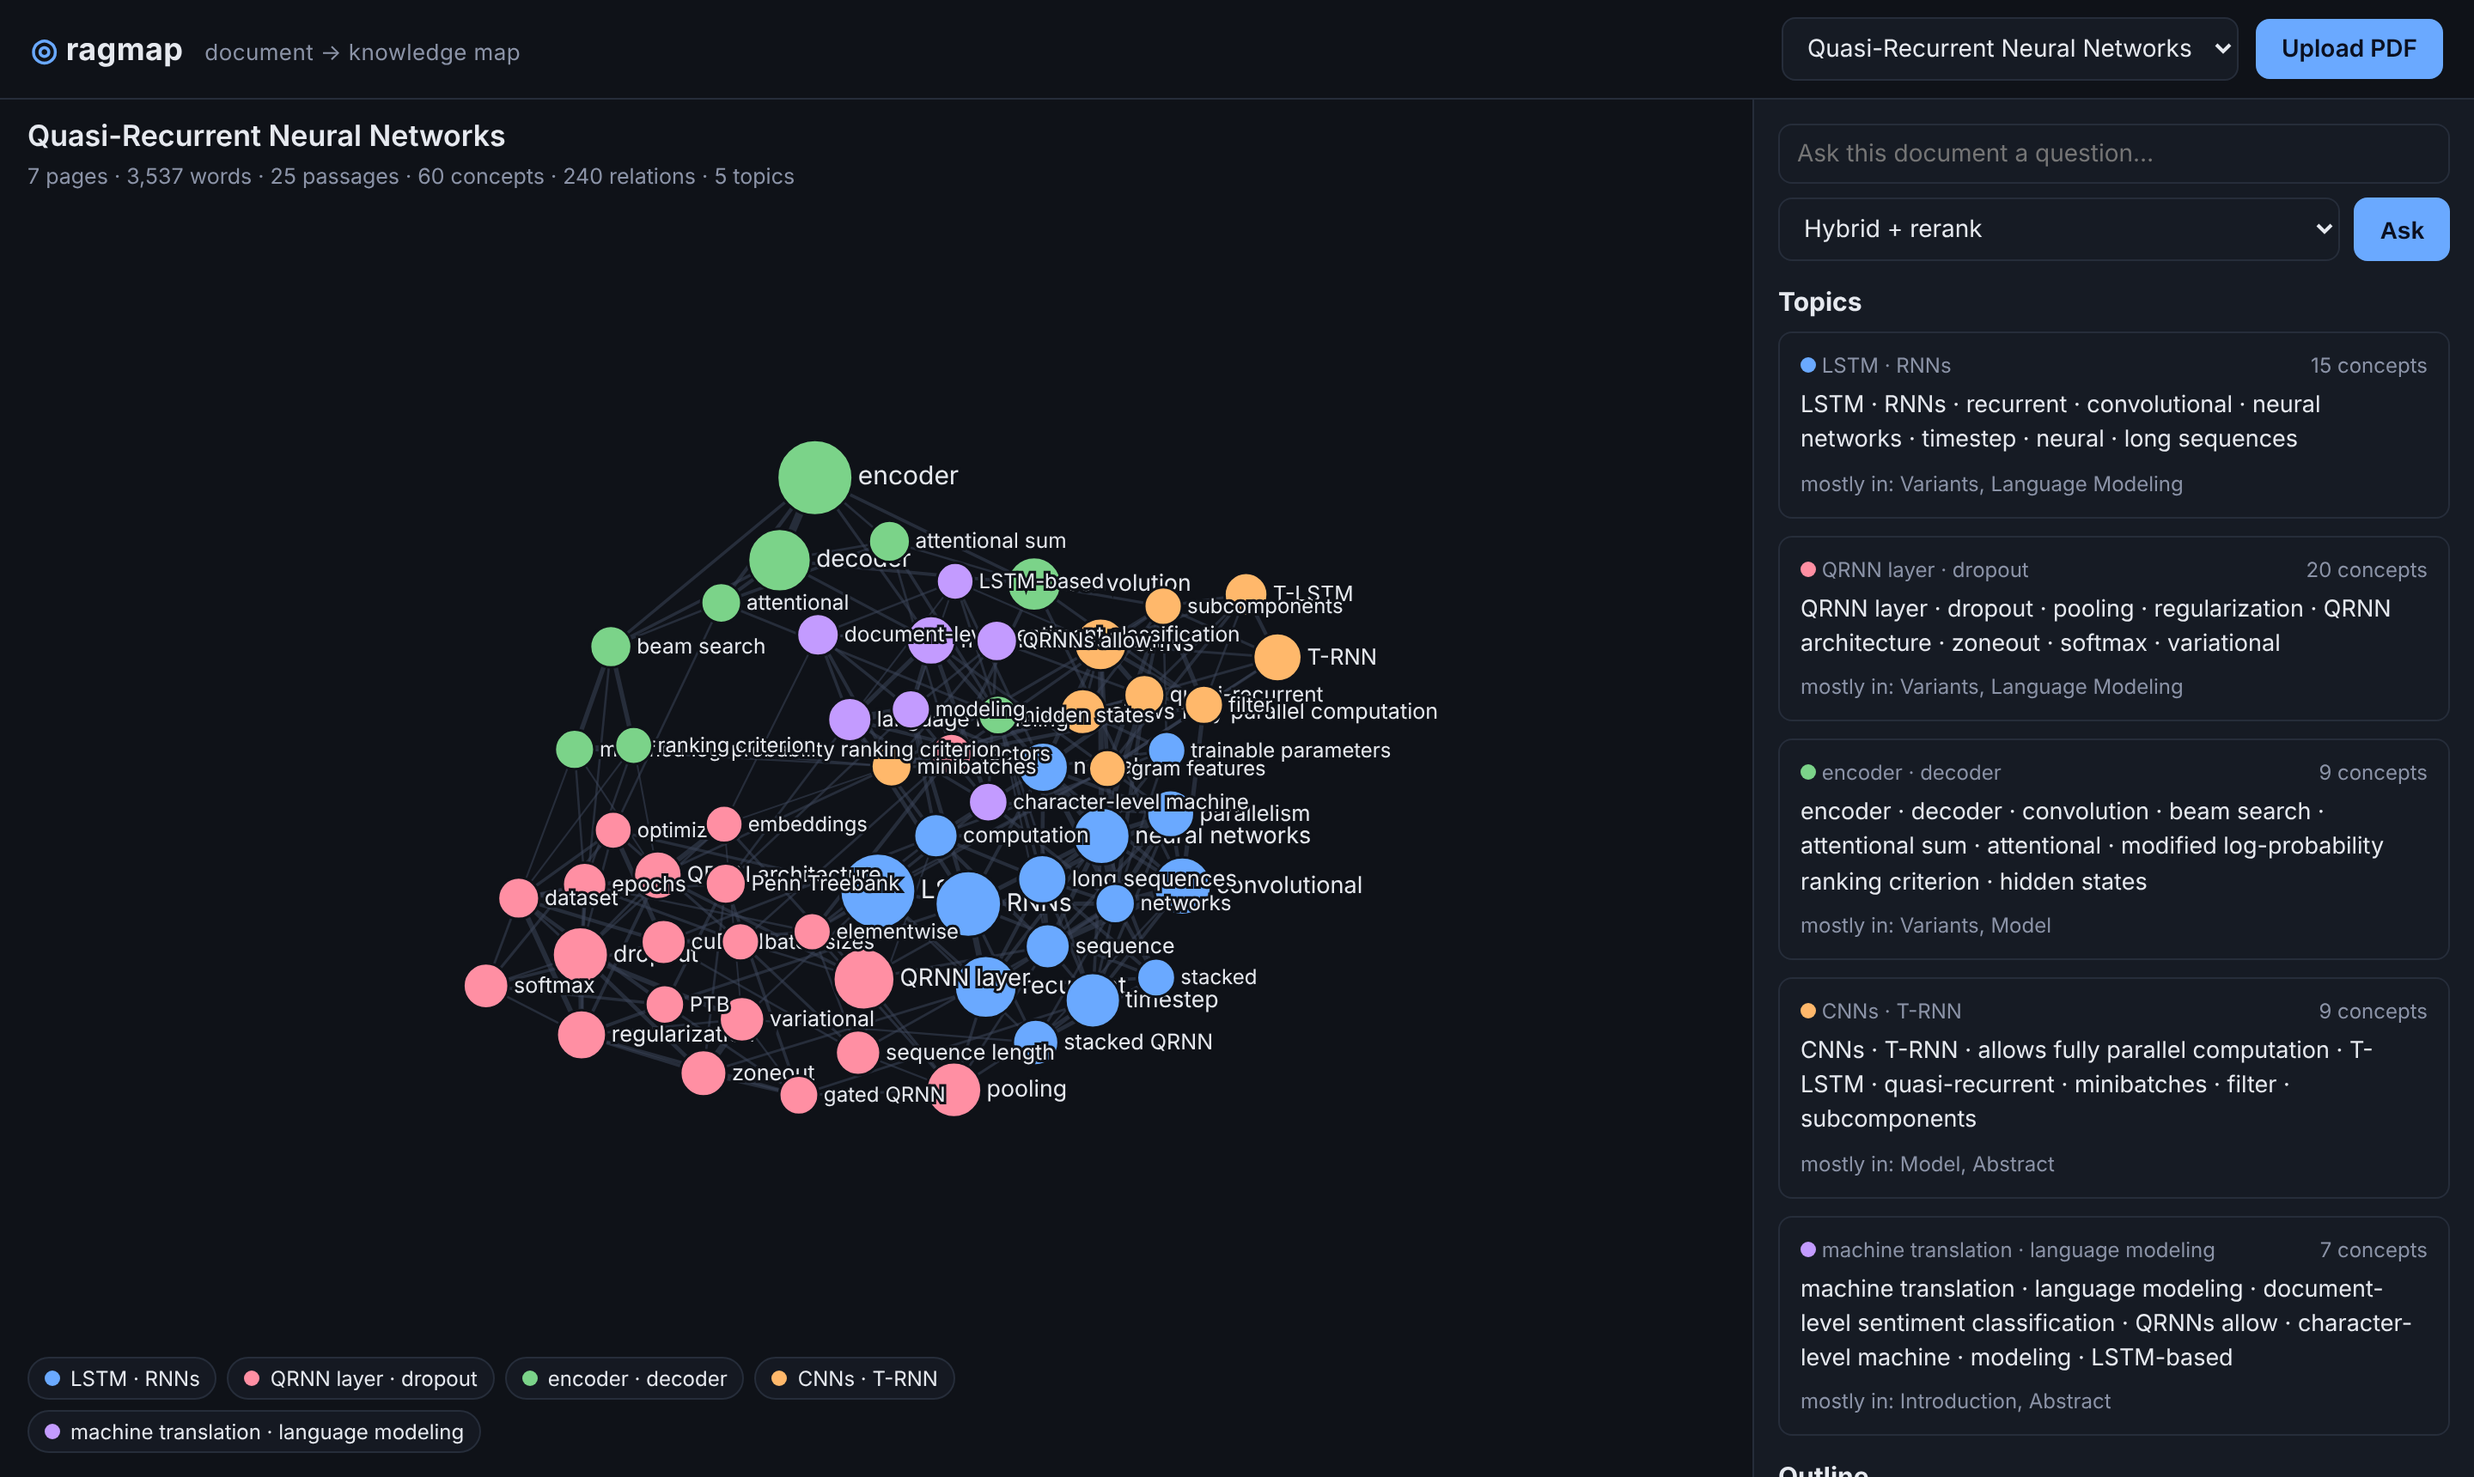
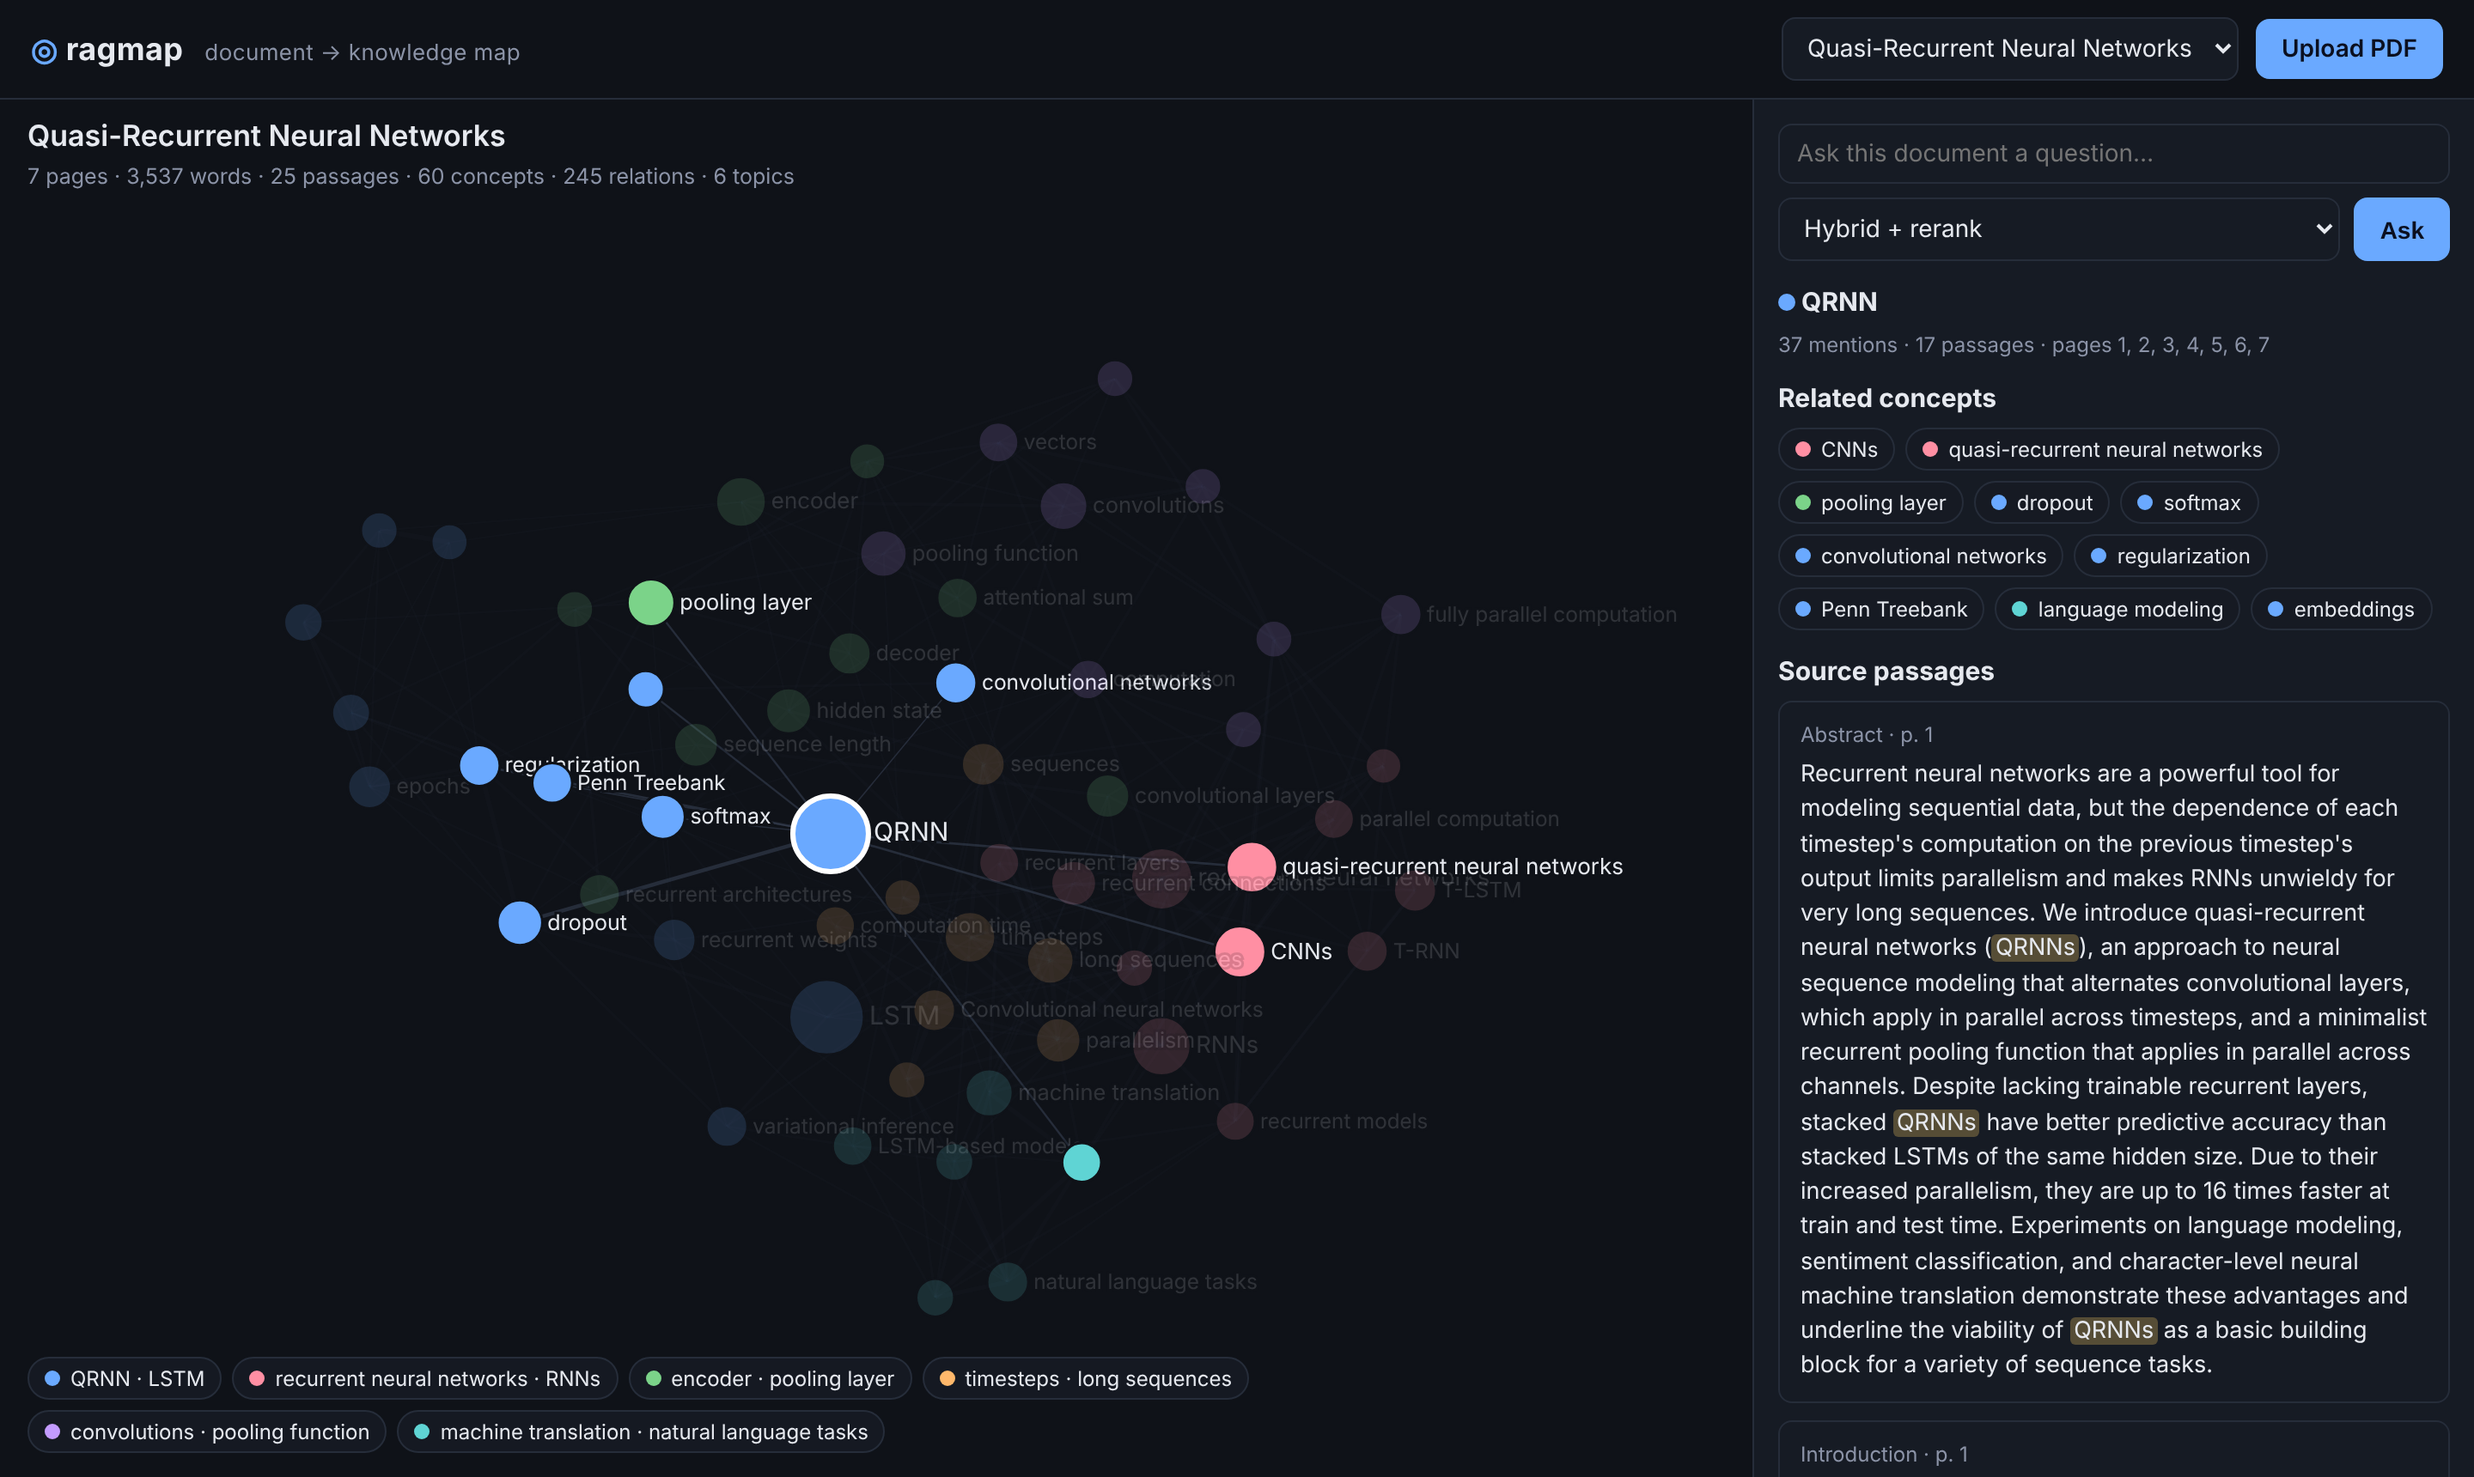
UI: calmer force layout, minor labels on hover; refresh screenshots
Claude-Session: https://claude.ai/code/session_013kbTTsiPp14aaVScZxiUCp

diff --git a/src/ragmap/static/app.js b/src/ragmap/static/app.js
@@ -63,16 +63,16 @@ function renderGraph() {
     .on("click", (e, d) => selectConcept(d.id))
     .on("mouseenter", (e, d) => hover(d.id)).on("mouseleave", () => hover(null));
   nodeSel.append("circle").attr("r", (d) => r(d.score)).attr("fill", (d) => color(d.community));
-  const labelCut = d3.quantile(nodes.map((d) => d.score).sort(d3.ascending), 0.45);
+  const labelCut = d3.quantile(nodes.map((d) => d.score).sort(d3.ascending), 0.3);
   nodeSel.append("text").text((d) => d.label).attr("class", (d) => (d.score >= labelCut ? "" : "minor")).attr("x", (d) => r(d.score) + 3).attr("y", 4)
     .style("font-size", (d) => `${10 + 5 * Math.sqrt(d.score / maxScore)}px`);
   nodeSel.append("title").text((d) => `${d.label} · ${d.count} mentions · ${d.chunks.length} passages`);
 
   sim = d3.forceSimulation(nodes)
     .force("link", d3.forceLink(links).id((d) => d.id).distance((d) => 105 - 40 * d.weight).strength(0.25))
-    .force("charge", d3.forceManyBody().strength(-380))
-    .force("collide", d3.forceCollide().radius((d) => r(d.score) + 14))
-    .force("x", d3.forceX(width / 2).strength(0.045)).force("y", d3.forceY(height / 2 + 10).strength(0.07))
+    .force("charge", d3.forceManyBody().strength(-250))
+    .force("collide", d3.forceCollide().radius((d) => r(d.score) + 10))
+    .force("x", d3.forceX(width / 2).strength(0.06)).force("y", d3.forceY(height / 2 + 10).strength(0.09))
     .on("tick", () => {
       linkSel.attr("x1", (d) => d.source.x).attr("y1", (d) => d.source.y).attr("x2", (d) => d.target.x).attr("y2", (d) => d.target.y);
       nodeSel.attr("transform", (d) => `translate(${d.x},${d.y})`);
